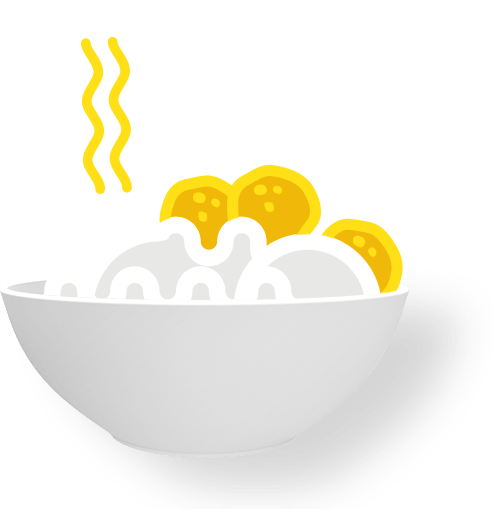
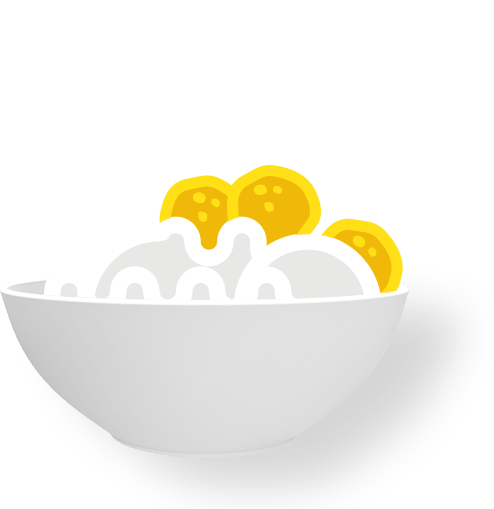
fix

Changed region(s): [[0.1518, 0.0589, 0.2733, 0.3831]]

diff --git a/js/scripts.min.js b/js/scripts.min.js
@@ -1255,6 +1255,14 @@ this._startTime=c-(c-this._startTime)*this._timeScale/a),this._timeScale=a,c=thi
 !function(e,r){"function"==typeof define&&define.amd?define(["ScrollMagic"],r):r("object"==typeof exports?require("scrollmagic"):e.ScrollMagic||e.jQuery&&e.jQuery.ScrollMagic)}(this,function(e){"use strict";var r="0.85em",t="9999",i=15,o=e._util,n=0;e.Scene.extend(function(){var e,r=this;r.addIndicators=function(t){if(!e){var i={name:"",indent:0,parent:void 0,colorStart:"green",colorEnd:"red",colorTrigger:"blue"};t=o.extend({},i,t),n++,e=new s(r,t),r.on("add.plugin_addIndicators",e.add),r.on("remove.plugin_addIndicators",e.remove),r.on("destroy.plugin_addIndicators",r.removeIndicators),r.controller()&&e.add()}return r},r.removeIndicators=function(){return e&&(e.remove(),this.off("*.plugin_addIndicators"),e=void 0),r}}),e.Controller.addOption("addIndicators",!1),e.Controller.extend(function(){var r=this,t=r.info(),n=t.container,s=t.isDocument,d=t.vertical,a={groups:[]};this._indicators=a;var g=function(){a.updateBoundsPositions()},p=function(){a.updateTriggerGroupPositions()};return n.addEventListener("resize",p),s||(window.addEventListener("resize",p),window.addEventListener("scroll",p)),n.addEventListener("resize",g),n.addEventListener("scroll",g),this._indicators.updateBoundsPositions=function(e){for(var r,t,s,g=e?[o.extend({},e.triggerGroup,{members:[e]})]:a.groups,p=g.length,u={},c=d?"left":"top",l=d?"width":"height",f=d?o.get.scrollLeft(n)+o.get.width(n)-i:o.get.scrollTop(n)+o.get.height(n)-i;p--;)for(s=g[p],r=s.members.length,t=o.get[l](s.element.firstChild);r--;)u[c]=f-t,o.css(s.members[r].bounds,u)},this._indicators.updateTriggerGroupPositions=function(e){for(var t,g,p,u,c,l=e?[e]:a.groups,f=l.length,m=s?document.body:n,h=s?{top:0,left:0}:o.get.offset(m,!0),v=d?o.get.width(n)-i:o.get.height(n)-i,b=d?"width":"height",G=d?"Y":"X";f--;)t=l[f],g=t.element,p=t.triggerHook*r.info("size"),u=o.get[b](g.firstChild.firstChild),c=p>u?"translate"+G+"(-100%)":"",o.css(g,{top:h.top+(d?p:v-t.members[0].options.indent),left:h.left+(d?v-t.members[0].options.indent:p)}),o.css(g.firstChild.firstChild,{"-ms-transform":c,"-webkit-transform":c,transform:c})},this._indicators.updateTriggerGroupLabel=function(e){var r="trigger"+(e.members.length>1?"":" "+e.members[0].options.name),t=e.element.firstChild.firstChild,i=t.textContent!==r;i&&(t.textContent=r,d&&a.updateBoundsPositions())},this.addScene=function(t){this._options.addIndicators&&t instanceof e.Scene&&t.controller()===r&&t.addIndicators(),this.$super.addScene.apply(this,arguments)},this.destroy=function(){n.removeEventListener("resize",p),s||(window.removeEventListener("resize",p),window.removeEventListener("scroll",p)),n.removeEventListener("resize",g),n.removeEventListener("scroll",g),this.$super.destroy.apply(this,arguments)},r});var s=function(e,r){var t,i,s=this,a=d.bounds(),g=d.start(r.colorStart),p=d.end(r.colorEnd),u=r.parent&&o.get.elements(r.parent)[0];r.name=r.name||n,g.firstChild.textContent+=" "+r.name,p.textContent+=" "+r.name,a.appendChild(g),a.appendChild(p),s.options=r,s.bounds=a,s.triggerGroup=void 0,this.add=function(){i=e.controller(),t=i.info("vertical");var r=i.info("isDocument");u||(u=r?document.body:i.info("container")),r||"static"!==o.css(u,"position")||o.css(u,{position:"relative"}),e.on("change.plugin_addIndicators",l),e.on("shift.plugin_addIndicators",c),G(),h(),setTimeout(function(){i._indicators.updateBoundsPositions(s)},0)},this.remove=function(){if(s.triggerGroup){if(e.off("change.plugin_addIndicators",l),e.off("shift.plugin_addIndicators",c),s.triggerGroup.members.length>1){var r=s.triggerGroup;r.members.splice(r.members.indexOf(s),1),i._indicators.updateTriggerGroupLabel(r),i._indicators.updateTriggerGroupPositions(r),s.triggerGroup=void 0}else b();m()}};var c=function(){h()},l=function(e){"triggerHook"===e.what&&G()},f=function(){var e=i.info("vertical");o.css(g.firstChild,{"border-bottom-width":e?1:0,"border-right-width":e?0:1,bottom:e?-1:r.indent,right:e?r.indent:-1,padding:e?"0 8px":"2px 4px"}),o.css(p,{"border-top-width":e?1:0,"border-left-width":e?0:1,top:e?"100%":"",right:e?r.indent:"",bottom:e?"":r.indent,left:e?"":"100%",padding:e?"0 8px":"2px 4px"}),u.appendChild(a)},m=function(){a.parentNode.removeChild(a)},h=function(){a.parentNode!==u&&f();var r={};r[t?"top":"left"]=e.triggerPosition(),r[t?"height":"width"]=e.duration(),o.css(a,r),o.css(p,{display:e.duration()>0?"":"none"})},v=function(){var n=d.trigger(r.colorTrigger),a={};a[t?"right":"bottom"]=0,a[t?"border-top-width":"border-left-width"]=1,o.css(n.firstChild,a),o.css(n.firstChild.firstChild,{padding:t?"0 8px 3px 8px":"3px 4px"}),document.body.appendChild(n);var g={triggerHook:e.triggerHook(),element:n,members:[s]};i._indicators.groups.push(g),s.triggerGroup=g,i._indicators.updateTriggerGroupLabel(g),i._indicators.updateTriggerGroupPositions(g)},b=function(){i._indicators.groups.splice(i._indicators.groups.indexOf(s.triggerGroup),1),s.triggerGroup.element.parentNode.removeChild(s.triggerGroup.element),s.triggerGroup=void 0},G=function(){var r=e.triggerHook(),t=1e-4;if(!(s.triggerGroup&&Math.abs(s.triggerGroup.triggerHook-r)<t)){for(var o,n=i._indicators.groups,d=n.length;d--;)if(o=n[d],Math.abs(o.triggerHook-r)<t)return s.triggerGroup&&(1===s.triggerGroup.members.length?b():(s.triggerGroup.members.splice(s.triggerGroup.members.indexOf(s),1),i._indicators.updateTriggerGroupLabel(s.triggerGroup),i._indicators.updateTriggerGroupPositions(s.triggerGroup))),o.members.push(s),s.triggerGroup=o,void i._indicators.updateTriggerGroupLabel(o);if(s.triggerGroup){if(1===s.triggerGroup.members.length)return s.triggerGroup.triggerHook=r,void i._indicators.updateTriggerGroupPositions(s.triggerGroup);s.triggerGroup.members.splice(s.triggerGroup.members.indexOf(s),1),i._indicators.updateTriggerGroupLabel(s.triggerGroup),i._indicators.updateTriggerGroupPositions(s.triggerGroup),s.triggerGroup=void 0}v()}}},d={start:function(e){var r=document.createElement("div");r.textContent="start",o.css(r,{position:"absolute",overflow:"visible","border-width":0,"border-style":"solid",color:e,"border-color":e});var t=document.createElement("div");return o.css(t,{position:"absolute",overflow:"visible",width:0,height:0}),t.appendChild(r),t},end:function(e){var r=document.createElement("div");return r.textContent="end",o.css(r,{position:"absolute",overflow:"visible","border-width":0,"border-style":"solid",color:e,"border-color":e}),r},bounds:function(){var e=document.createElement("div");return o.css(e,{position:"absolute",overflow:"visible","white-space":"nowrap","pointer-events":"none","font-size":r}),e.style.zIndex=t,e},trigger:function(e){var i=document.createElement("div");i.textContent="trigger",o.css(i,{position:"relative"});var n=document.createElement("div");o.css(n,{position:"absolute",overflow:"visible","border-width":0,"border-style":"solid",color:e,"border-color":e}),n.appendChild(i);var s=document.createElement("div");return o.css(s,{position:"fixed",overflow:"visible","white-space":"nowrap","pointer-events":"none","font-size":r}),s.style.zIndex=t,s.appendChild(n),s}}});
 /*! ScrollMagic v2.0.5 | (c) 2015 Jan Paepke (@janpaepke) | license & info: http://scrollmagic.io */
 !function(e,i){"function"==typeof define&&define.amd?define(["ScrollMagic","jquery"],i):"object"==typeof exports?i(require("scrollmagic"),require("jquery")):i(e.ScrollMagic,e.jQuery)}(this,function(e,i){"use strict";e._util.get.elements=function(e){return i(e).toArray()},e._util.addClass=function(e,t){i(e).addClass(t)},e._util.removeClass=function(e,t){i(e).removeClass(t)},i.ScrollMagic=e});
+/**
+ * vivus - JavaScript library to make drawing animation on SVG
+ * @version v0.4.4
+ * @link https://github.com/maxwellito/vivus
+ * @license MIT
+ */
+"use strict"; !function () { function t(t) { if ("undefined" == typeof t) throw new Error('Pathformer [constructor]: "element" parameter is required'); if (t.constructor === String && (t = document.getElementById(t), !t)) throw new Error('Pathformer [constructor]: "element" parameter is not related to an existing ID'); if (!(t instanceof window.SVGElement || t instanceof window.SVGGElement || /^svg$/i.test(t.nodeName))) throw new Error('Pathformer [constructor]: "element" parameter must be a string or a SVGelement'); this.el = t, this.scan(t) } function e(t, e, n) { r(), this.isReady = !1, this.setElement(t, e), this.setOptions(e), this.setCallback(n), this.isReady && this.init() } t.prototype.TYPES = ["line", "ellipse", "circle", "polygon", "polyline", "rect"], t.prototype.ATTR_WATCH = ["cx", "cy", "points", "r", "rx", "ry", "x", "x1", "x2", "y", "y1", "y2"], t.prototype.scan = function (t) { for (var e, r, n, i, a = t.querySelectorAll(this.TYPES.join(",")), o = 0; o < a.length; o++)r = a[o], e = this[r.tagName.toLowerCase() + "ToPath"], n = e(this.parseAttr(r.attributes)), i = this.pathMaker(r, n), r.parentNode.replaceChild(i, r) }, t.prototype.lineToPath = function (t) { var e = {}, r = t.x1 || 0, n = t.y1 || 0, i = t.x2 || 0, a = t.y2 || 0; return e.d = "M" + r + "," + n + "L" + i + "," + a, e }, t.prototype.rectToPath = function (t) { var e = {}, r = parseFloat(t.x) || 0, n = parseFloat(t.y) || 0, i = parseFloat(t.width) || 0, a = parseFloat(t.height) || 0; if (t.rx || t.ry) { var o = parseInt(t.rx, 10) || -1, s = parseInt(t.ry, 10) || -1; o = Math.min(Math.max(0 > o ? s : o, 0), i / 2), s = Math.min(Math.max(0 > s ? o : s, 0), a / 2), e.d = "M " + (r + o) + "," + n + " L " + (r + i - o) + "," + n + " A " + o + "," + s + ",0,0,1," + (r + i) + "," + (n + s) + " L " + (r + i) + "," + (n + a - s) + " A " + o + "," + s + ",0,0,1," + (r + i - o) + "," + (n + a) + " L " + (r + o) + "," + (n + a) + " A " + o + "," + s + ",0,0,1," + r + "," + (n + a - s) + " L " + r + "," + (n + s) + " A " + o + "," + s + ",0,0,1," + (r + o) + "," + n } else e.d = "M" + r + " " + n + " L" + (r + i) + " " + n + " L" + (r + i) + " " + (n + a) + " L" + r + " " + (n + a) + " Z"; return e }, t.prototype.polylineToPath = function (t) { var e, r, n = {}, i = t.points.trim().split(" "); if (-1 === t.points.indexOf(",")) { var a = []; for (e = 0; e < i.length; e += 2)a.push(i[e] + "," + i[e + 1]); i = a } for (r = "M" + i[0], e = 1; e < i.length; e++)-1 !== i[e].indexOf(",") && (r += "L" + i[e]); return n.d = r, n }, t.prototype.polygonToPath = function (e) { var r = t.prototype.polylineToPath(e); return r.d += "Z", r }, t.prototype.ellipseToPath = function (t) { var e = {}, r = parseFloat(t.rx) || 0, n = parseFloat(t.ry) || 0, i = parseFloat(t.cx) || 0, a = parseFloat(t.cy) || 0, o = i - r, s = a, h = parseFloat(i) + parseFloat(r), l = a; return e.d = "M" + o + "," + s + "A" + r + "," + n + " 0,1,1 " + h + "," + l + "A" + r + "," + n + " 0,1,1 " + o + "," + l, e }, t.prototype.circleToPath = function (t) { var e = {}, r = parseFloat(t.r) || 0, n = parseFloat(t.cx) || 0, i = parseFloat(t.cy) || 0, a = n - r, o = i, s = parseFloat(n) + parseFloat(r), h = i; return e.d = "M" + a + "," + o + "A" + r + "," + r + " 0,1,1 " + s + "," + h + "A" + r + "," + r + " 0,1,1 " + a + "," + h, e }, t.prototype.pathMaker = function (t, e) { var r, n, i = document.createElementNS("http://www.w3.org/2000/svg", "path"); for (r = 0; r < t.attributes.length; r++)n = t.attributes[r], -1 === this.ATTR_WATCH.indexOf(n.name) && i.setAttribute(n.name, n.value); for (r in e) i.setAttribute(r, e[r]); return i }, t.prototype.parseAttr = function (t) { for (var e, r = {}, n = 0; n < t.length; n++) { if (e = t[n], -1 !== this.ATTR_WATCH.indexOf(e.name) && -1 !== e.value.indexOf("%")) throw new Error("Pathformer [parseAttr]: a SVG shape got values in percentage. This cannot be transformed into 'path' tags. Please use 'viewBox'."); r[e.name] = e.value } return r }; var r, n, i, a; e.LINEAR = function (t) { return t }, e.EASE = function (t) { return -Math.cos(t * Math.PI) / 2 + .5 }, e.EASE_OUT = function (t) { return 1 - Math.pow(1 - t, 3) }, e.EASE_IN = function (t) { return Math.pow(t, 3) }, e.EASE_OUT_BOUNCE = function (t) { var e = -Math.cos(.5 * t * Math.PI) + 1, r = Math.pow(e, 1.5), n = Math.pow(1 - t, 2), i = -Math.abs(Math.cos(2.5 * r * Math.PI)) + 1; return 1 - n + i * n }, e.prototype.setElement = function (t, e) { var r, n; if ("undefined" == typeof t) throw new Error('Vivus [constructor]: "element" parameter is required'); if (t.constructor === String && (t = document.getElementById(t), !t)) throw new Error('Vivus [constructor]: "element" parameter is not related to an existing ID'); if (this.parentEl = t, e && e.file) { var n = this; r = function () { var t = document.createElement("div"); t.innerHTML = this.responseText; var r = t.querySelector("svg"); if (!r) throw new Error("Vivus [load]: Cannot find the SVG in the loaded file : " + e.file); n.el = r, n.el.setAttribute("width", "100%"), n.el.setAttribute("height", "100%"), n.parentEl.appendChild(n.el), n.isReady = !0, n.init(), n = null }; var i = new window.XMLHttpRequest; return i.addEventListener("load", r), i.open("GET", e.file), i.send(), void 0 } switch (t.constructor) { case window.SVGSVGElement: case window.SVGElement: case window.SVGGElement: this.el = t, this.isReady = !0; break; case window.HTMLObjectElement: n = this, r = function (e) { if (!n.isReady) { if (n.el = t.contentDocument && t.contentDocument.querySelector("svg"), !n.el && e) throw new Error("Vivus [constructor]: object loaded does not contain any SVG"); n.el && (t.getAttribute("built-by-vivus") && (n.parentEl.insertBefore(n.el, t), n.parentEl.removeChild(t), n.el.setAttribute("width", "100%"), n.el.setAttribute("height", "100%")), n.isReady = !0, n.init(), n = null) } }, r() || t.addEventListener("load", r); break; default: throw new Error('Vivus [constructor]: "element" parameter is not valid (or miss the "file" attribute)') } }, e.prototype.setOptions = function (t) { var r = ["delayed", "sync", "async", "nsync", "oneByOne", "scenario", "scenario-sync"], n = ["inViewport", "manual", "autostart"]; if (void 0 !== t && t.constructor !== Object) throw new Error('Vivus [constructor]: "options" parameter must be an object'); if (t = t || {}, t.type && -1 === r.indexOf(t.type)) throw new Error("Vivus [constructor]: " + t.type + " is not an existing animation `type`"); if (this.type = t.type || r[0], t.start && -1 === n.indexOf(t.start)) throw new Error("Vivus [constructor]: " + t.start + " is not an existing `start` option"); if (this.start = t.start || n[0], this.isIE = -1 !== window.navigator.userAgent.indexOf("MSIE") || -1 !== window.navigator.userAgent.indexOf("Trident/") || -1 !== window.navigator.userAgent.indexOf("Edge/"), this.duration = a(t.duration, 120), this.delay = a(t.delay, null), this.dashGap = a(t.dashGap, 1), this.forceRender = t.hasOwnProperty("forceRender") ? !!t.forceRender : this.isIE, this.reverseStack = !!t.reverseStack, this.selfDestroy = !!t.selfDestroy, this.onReady = t.onReady, this.map = [], this.frameLength = this.currentFrame = this.delayUnit = this.speed = this.handle = null, this.ignoreInvisible = t.hasOwnProperty("ignoreInvisible") ? !!t.ignoreInvisible : !1, this.animTimingFunction = t.animTimingFunction || e.LINEAR, this.pathTimingFunction = t.pathTimingFunction || e.LINEAR, this.delay >= this.duration) throw new Error("Vivus [constructor]: delay must be shorter than duration") }, e.prototype.setCallback = function (t) { if (t && t.constructor !== Function) throw new Error('Vivus [constructor]: "callback" parameter must be a function'); this.callback = t || function () { } }, e.prototype.mapping = function () { var t, e, r, n, i, o, s, h; for (h = o = s = 0, e = this.el.querySelectorAll("path"), t = 0; t < e.length; t++)r = e[t], this.isInvisible(r) || (i = { el: r, length: Math.ceil(r.getTotalLength()) }, isNaN(i.length) ? window.console && console.warn && console.warn("Vivus [mapping]: cannot retrieve a path element length", r) : (this.map.push(i), r.style.strokeDasharray = i.length + " " + (i.length + 2 * this.dashGap), r.style.strokeDashoffset = i.length + this.dashGap, i.length += this.dashGap, o += i.length, this.renderPath(t))); for (o = 0 === o ? 1 : o, this.delay = null === this.delay ? this.duration / 3 : this.delay, this.delayUnit = this.delay / (e.length > 1 ? e.length - 1 : 1), this.reverseStack && this.map.reverse(), t = 0; t < this.map.length; t++) { switch (i = this.map[t], this.type) { case "delayed": i.startAt = this.delayUnit * t, i.duration = this.duration - this.delay; break; case "oneByOne": i.startAt = s / o * this.duration, i.duration = i.length / o * this.duration; break; case "sync": case "async": case "nsync": i.startAt = 0, i.duration = this.duration; break; case "scenario-sync": r = i.el, n = this.parseAttr(r), i.startAt = h + (a(n["data-delay"], this.delayUnit) || 0), i.duration = a(n["data-duration"], this.duration), h = void 0 !== n["data-async"] ? i.startAt : i.startAt + i.duration, this.frameLength = Math.max(this.frameLength, i.startAt + i.duration); break; case "scenario": r = i.el, n = this.parseAttr(r), i.startAt = a(n["data-start"], this.delayUnit) || 0, i.duration = a(n["data-duration"], this.duration), this.frameLength = Math.max(this.frameLength, i.startAt + i.duration) }s += i.length, this.frameLength = this.frameLength || this.duration } }, e.prototype.drawer = function () { var t = this; if (this.currentFrame += this.speed, this.currentFrame <= 0) this.stop(), this.reset(); else { if (!(this.currentFrame >= this.frameLength)) return this.trace(), this.handle = n(function () { t.drawer() }), void 0; this.stop(), this.currentFrame = this.frameLength, this.trace(), this.selfDestroy && this.destroy() } this.callback(this), this.instanceCallback && (this.instanceCallback(this), this.instanceCallback = null) }, e.prototype.trace = function () { var t, e, r, n; for (n = this.animTimingFunction(this.currentFrame / this.frameLength) * this.frameLength, t = 0; t < this.map.length; t++)r = this.map[t], e = (n - r.startAt) / r.duration, e = this.pathTimingFunction(Math.max(0, Math.min(1, e))), r.progress !== e && (r.progress = e, r.el.style.strokeDashoffset = Math.floor(r.length * (1 - e)), this.renderPath(t)) }, e.prototype.renderPath = function (t) { if (this.forceRender && this.map && this.map[t]) { var e = this.map[t], r = e.el.cloneNode(!0); e.el.parentNode.replaceChild(r, e.el), e.el = r } }, e.prototype.init = function () { this.frameLength = 0, this.currentFrame = 0, this.map = [], new t(this.el), this.mapping(), this.starter(), this.onReady && this.onReady(this) }, e.prototype.starter = function () { switch (this.start) { case "manual": return; case "autostart": this.play(); break; case "inViewport": var t = this, e = function () { t.isInViewport(t.parentEl, 1) && (t.play(), window.removeEventListener("scroll", e)) }; window.addEventListener("scroll", e), e() } }, e.prototype.getStatus = function () { return 0 === this.currentFrame ? "start" : this.currentFrame === this.frameLength ? "end" : "progress" }, e.prototype.reset = function () { return this.setFrameProgress(0) }, e.prototype.finish = function () { return this.setFrameProgress(1) }, e.prototype.setFrameProgress = function (t) { return t = Math.min(1, Math.max(0, t)), this.currentFrame = Math.round(this.frameLength * t), this.trace(), this }, e.prototype.play = function (t, e) { if (this.instanceCallback = null, t && "function" == typeof t) this.instanceCallback = t, t = null; else if (t && "number" != typeof t) throw new Error("Vivus [play]: invalid speed"); return e && "function" == typeof e && !this.instanceCallback && (this.instanceCallback = e), this.speed = t || 1, this.handle || this.drawer(), this }, e.prototype.stop = function () { return this.handle && (i(this.handle), this.handle = null), this }, e.prototype.destroy = function () { this.stop(); var t, e; for (t = 0; t < this.map.length; t++)e = this.map[t], e.el.style.strokeDashoffset = null, e.el.style.strokeDasharray = null, this.renderPath(t) }, e.prototype.isInvisible = function (t) { var e, r = t.getAttribute("data-ignore"); return null !== r ? "false" !== r : this.ignoreInvisible ? (e = t.getBoundingClientRect(), !e.width && !e.height) : !1 }, e.prototype.parseAttr = function (t) { var e, r = {}; if (t && t.attributes) for (var n = 0; n < t.attributes.length; n++)e = t.attributes[n], r[e.name] = e.value; return r }, e.prototype.isInViewport = function (t, e) { var r = this.scrollY(), n = r + this.getViewportH(), i = t.getBoundingClientRect(), a = i.height, o = r + i.top, s = o + a; return e = e || 0, n >= o + a * e && s >= r }, e.prototype.getViewportH = function () { var t = this.docElem.clientHeight, e = window.innerHeight; return e > t ? e : t }, e.prototype.scrollY = function () { return window.pageYOffset || this.docElem.scrollTop }, r = function () { e.prototype.docElem || (e.prototype.docElem = window.document.documentElement, n = function () { return window.requestAnimationFrame || window.webkitRequestAnimationFrame || window.mozRequestAnimationFrame || window.oRequestAnimationFrame || window.msRequestAnimationFrame || function (t) { return window.setTimeout(t, 1e3 / 60) } }(), i = function () { return window.cancelAnimationFrame || window.webkitCancelAnimationFrame || window.mozCancelAnimationFrame || window.oCancelAnimationFrame || window.msCancelAnimationFrame || function (t) { return window.clearTimeout(t) } }()) }, a = function (t, e) { var r = parseInt(t, 10); return r >= 0 ? r : e }, "function" == typeof define && define.amd ? define([], function () { return e }) : "object" == typeof exports ? module.exports = e : window.Vivus = e }();
+
 window.onload = init;
 
 function init() {
@@ -1271,6 +1279,10 @@ function init() {
 			transform: 'translateY(100%)',
 			opacity: 0
 		}, 'start')
+		.from('.banner__text', 0.5, {
+			transform: 'translateY(100%)',
+			opacity: 0
+		}, 'start')
 		.from('.banner__box', 0.5, {
 			transform: 'translateY(10%)',
 			opacity: 0
@@ -1281,7 +1293,7 @@ function init() {
 		}, 'start+=0.2')
 		
 	//Parallax эффект у коробки
-	parallax('.banner__box', [{ obj: '.banner__box', mov: '-10' }], 'y');
+	parallax('.banner__box', [{ obj: '.banner__box', mov: '-20' }], 'y');
 
 	//Анимация появления плиток
 	var tile1 = new TimelineMax();
@@ -1409,8 +1421,25 @@ function init() {
 		.addTo(controller);
 
 	//Parallax эффект у карт
-	parallax('.card--1', [{ obj: '.card__card--1', mov: '-15' }]);
-	parallax('.card--2', [{ obj: '.card__card--2', mov: '-15' }]);
+	// parallax('.card--1', [{ obj: '.card__card--1', mov: '-15' }]);
+	// parallax('.card--2', [{ obj: '.card__card--2', mov: '-15' }]);
+	$('.card__card').tilt({
+		maxTilt: 10
+	})
+
+	var smoke1 = new Vivus('smoke-1');
+	var smoke2 = new Vivus('smoke-2');
+
+	setInterval(function(){
+		smoke1
+			.stop()
+			.reset()
+			.play(1)
+		smoke2
+			.stop()
+			.reset()
+			.play(1)
+	}, 1500)
 }
 
 $(function() {

diff --git a/css/main.min.css b/css/main.min.css
@@ -7856,7 +7856,12 @@ a, a:hover, a:active, a:visited, a:focus {
 }
 
 .show-all .cards__cat.ikea {
+  background-color: transparent;
   border: 2px solid #fde414;
+}
+
+.show-all .cards__cat.ikea:hover span, .show-all .cards__cat.ikea:active span {
+  color: #fff;
 }
 
 .isGiftCard .cards__type {
@@ -8040,6 +8045,15 @@ a, a:hover, a:active, a:visited, a:focus {
           transform: rotate(-16deg);
 }
 
+.select__smoke {
+  position: absolute;
+  left: 80px;
+  top: 28px;
+  -webkit-transform: rotate(180deg);
+      -ms-transform: rotate(180deg);
+          transform: rotate(180deg);
+}
+
 /* Card */
 .card {
   position: relative;
@@ -8078,8 +8092,12 @@ a, a:hover, a:active, a:visited, a:focus {
 }
 
 .card:hover .card__title {
-  font-size: 18px;
-  margin-bottom: 12px;
+  -webkit-transform: scale(0.75) translateY(130%);
+      -ms-transform: scale(0.75) translateY(130%);
+          transform: scale(0.75) translateY(130%);
+  -webkit-transform-origin: 0 100%;
+      -ms-transform-origin: 0 100%;
+          transform-origin: 0 100%;
 }
 
 .card:hover .card__title::after {
@@ -8087,11 +8105,12 @@ a, a:hover, a:active, a:visited, a:focus {
 }
 
 .card:hover .card__description {
-  font-size: 13px;
-}
-
-.card:hover .card__description p:not(:last-of-type) {
-  margin-bottom: 0px;
+  -webkit-transform: scale(0.81);
+      -ms-transform: scale(0.81);
+          transform: scale(0.81);
+  -webkit-transform-origin: 0 100%;
+      -ms-transform-origin: 0 100%;
+          transform-origin: 0 100%;
 }
 
 .card__card {
@@ -8115,8 +8134,11 @@ a, a:hover, a:active, a:visited, a:focus {
   font-size: 24px;
   font-weight: 700;
   margin-bottom: 28px;
-  -webkit-transition: 0.3s;
-  transition: 0.3s;
+  will-change: transform;
+  -webkit-transition: -webkit-transform 0.3s;
+  transition: -webkit-transform 0.3s;
+  transition: transform 0.3s;
+  transition: transform 0.3s, -webkit-transform 0.3s;
 }
 
 .card__title::after {
@@ -8136,8 +8158,11 @@ a, a:hover, a:active, a:visited, a:focus {
   font-family: Circle;
   font-size: 16px;
   font-weight: 500;
-  -webkit-transition: 0.3s;
-  transition: 0.3s;
+  will-change: transform;
+  -webkit-transition: -webkit-transform 0.3s;
+  transition: -webkit-transform 0.3s;
+  transition: transform 0.3s;
+  transition: transform 0.3s, -webkit-transform 0.3s;
 }
 
 .card__description p {
@@ -8837,6 +8862,13 @@ body.modal-opened {
     right: -29px;
     bottom: -438px;
     width: 319px;
+  }
+  .select__smoke {
+    left: 36px;
+    top: -12px;
+    -webkit-transform: rotate(180deg) scale(0.7);
+        -ms-transform: rotate(180deg) scale(0.7);
+            transform: rotate(180deg) scale(0.7);
   }
   .spend__summ {
     font-size: 47px;

diff --git a/index.html b/index.html
@@ -599,6 +599,40 @@
 			</div>
 			<div class="select__miska">
 				<img src="img/Miska.png" alt="">
+				<div class="select__smoke">
+					<svg id="smoke-1" xmlns="http://www.w3.org/2000/svg" width="23" height="154" viewBox="0 0 23 154">
+						<defs>
+							<style>
+								.cls-1 {
+									fill: none;
+									stroke: #ffdf15;
+									stroke-linecap: round;
+									stroke-linejoin: round;
+									stroke-width: 9px;
+									fill-rule: evenodd;
+								}
+							</style>
+						</defs>
+						<path id="Line_1_stroke" class="cls-1" d="M2053,5860c0,11.69,13,14.02,13,29s-12,13.94-12,29,12,14.76,12,29-12,18.48-12,30,13,18.4,13,28"
+						 transform="translate(-2048.5 -5855.5)" />
+					</svg>
+					<svg id="smoke-2" xmlns="http://www.w3.org/2000/svg" width="23" height="154" viewBox="0 0 23 154">
+						<defs>
+							<style>
+								.cls-1 {
+									fill: none;
+									stroke: #ffdf15;
+									stroke-linecap: round;
+									stroke-linejoin: round;
+									stroke-width: 9px;
+									fill-rule: evenodd;
+								}
+							</style>
+						</defs>
+						<path id="Line_2_stroke" class="cls-1" d="M2080,5860c0,11.69,13,14.02,13,29s-12,13.94-12,29,12,14.76,12,29-12,18.48-12,30,13,18.4,13,28"
+						 transform="translate(-2075.5 -5855.5)" />
+					</svg>
+				</div>
 			</div>
 			<div class="select__frikadelka">
 				Купили мебель —
